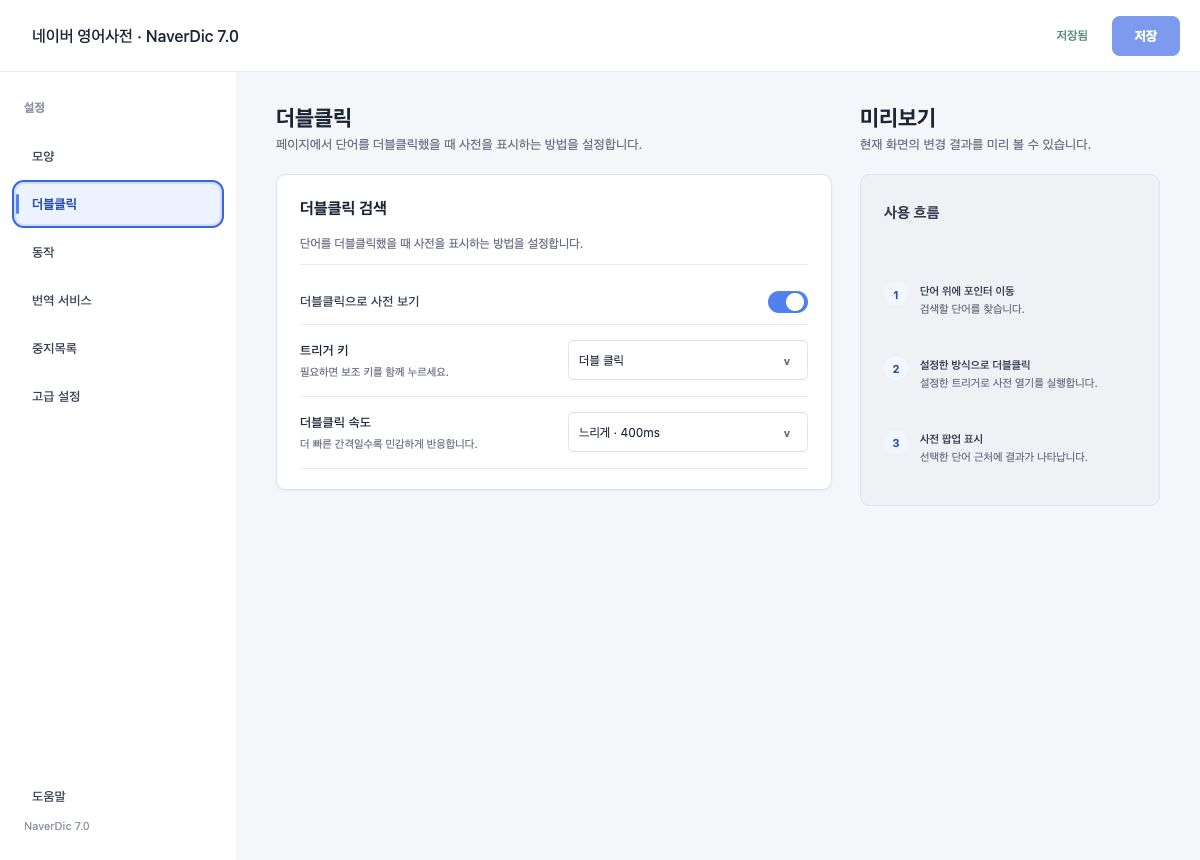
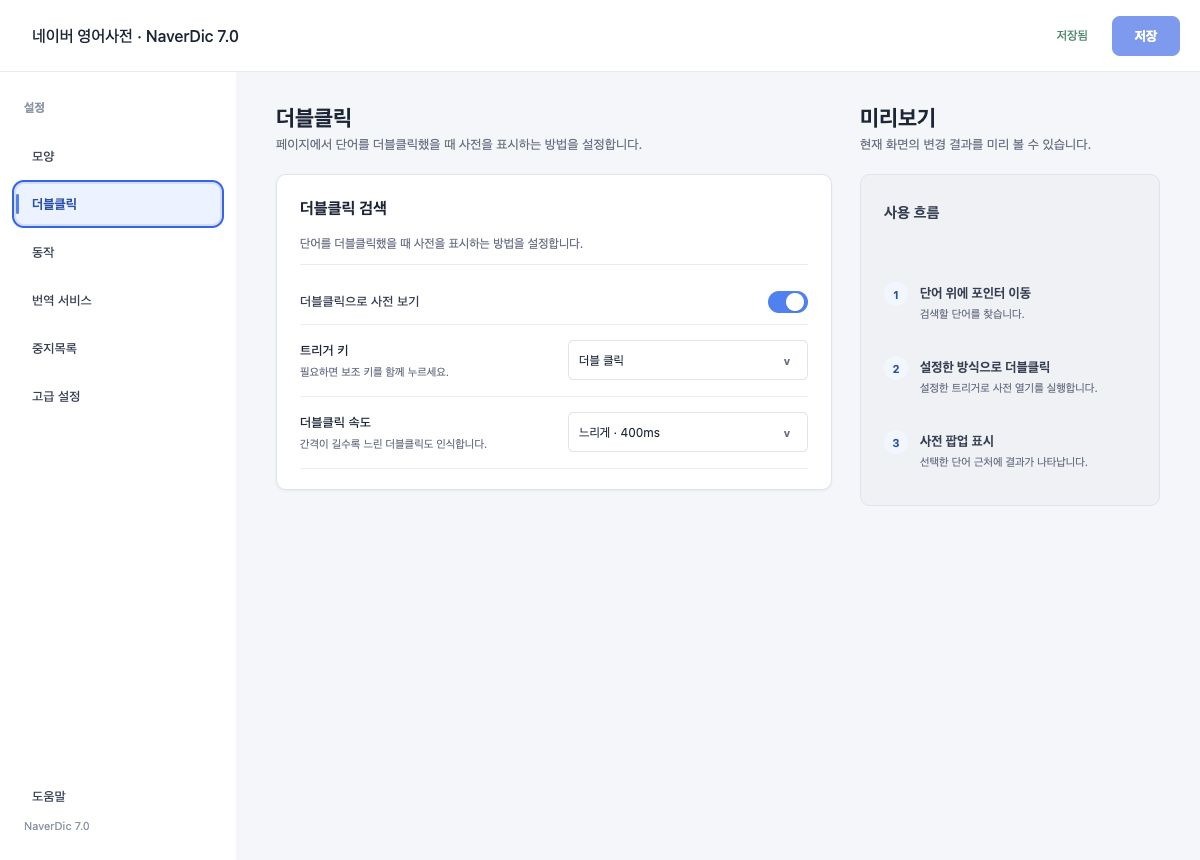
fix(settings): refine double-click preview typography
Align the speed hint locale and preview step typography with the latest Figma review.

Changed region(s): [[0.7708, 0.3326, 0.925, 0.4535], [0.7708, 0.4837, 0.8942, 0.5442], [0.2467, 0.514, 0.4008, 0.5442]]

diff --git a/src/components/SettingsPreview.vue b/src/components/SettingsPreview.vue
@@ -100,8 +100,8 @@ const previewSteps = computed(() => {
 .settings-guide-preview--double-click li:nth-child(2) { top: 181px; }
 .settings-guide-preview--double-click li:nth-child(3) { top: 255px; }
 .settings-guide-preview--double-click li > span { color: var(--naverdic-settings-primary-text); background: var(--naverdic-settings-info); }
-.settings-guide-preview--double-click li p { display: flex; width: 216px; margin: 1px 0 0; flex-direction: column; gap: 2px; color: var(--naverdic-settings-text-muted); font-size: 11px; line-height: 16px; }
-.settings-guide-preview--double-click li p strong { color: #344054; font-size: 11px; font-weight: 600; line-height: 16px; }
-.settings-guide-preview--double-click li p span { color: var(--naverdic-settings-text-muted); font-size: 11px; line-height: 16px; }
+.settings-guide-preview--double-click li p { display: flex; width: 216px; margin: 1px 0 0; flex-direction: column; gap: 2px; color: var(--naverdic-settings-text-muted); font-size: 11px; line-height: 18px; }
+.settings-guide-preview--double-click li p strong { color: #344054; font-size: 13px; font-weight: 700; line-height: 20px; }
+.settings-guide-preview--double-click li p span { color: var(--naverdic-settings-text-muted); font-size: 11px; line-height: 18px; }
 .settings-notice-preview strong, .settings-help-preview strong { display: block; font-size: 16px; line-height: 24px; }.settings-notice-preview p, .settings-help-preview p { margin: 12px 0 0; color: var(--naverdic-settings-text-muted); font-size: 12px; line-height: 20px; }.settings-notice-preview span { display: block; margin-top: 26px; padding: 12px; color: var(--naverdic-settings-primary-text); background: var(--naverdic-settings-info); border-radius: 8px; font-size: 11px; line-height: 18px; }.settings-help-preview a { display: inline-block; margin-top: 24px; color: var(--naverdic-settings-primary-text); font-size: 12px; font-weight: 700; }
 </style>
